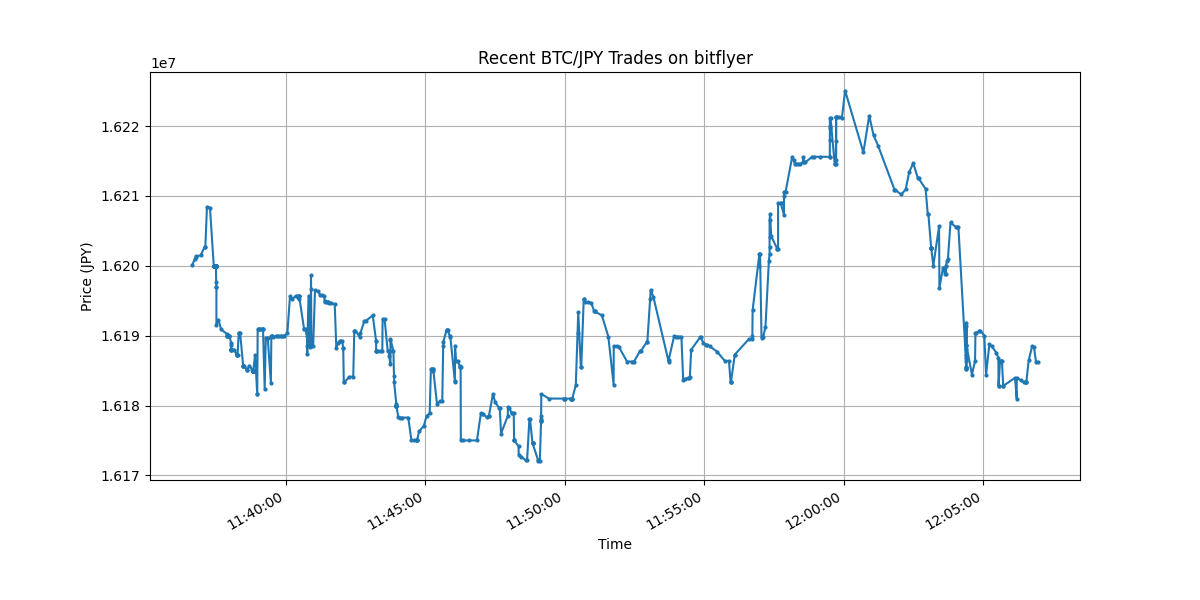
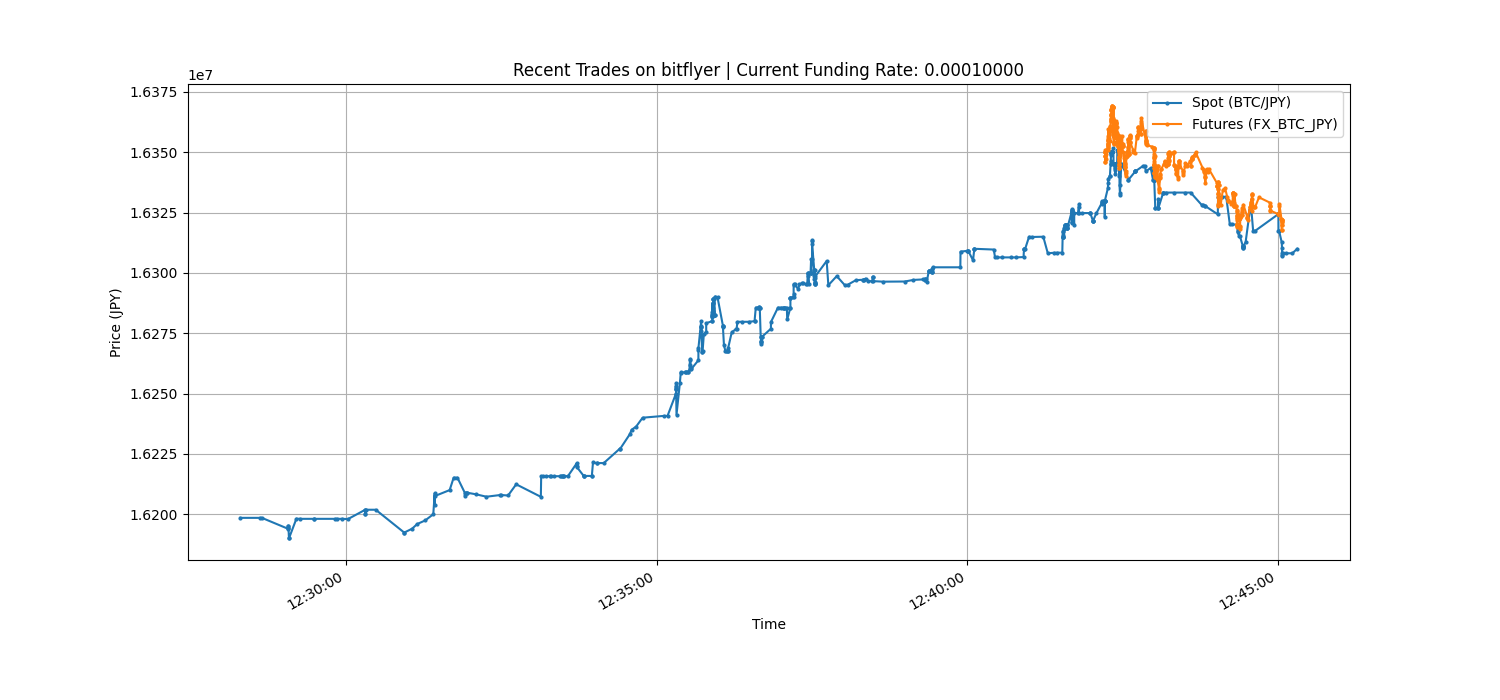
Enhance the trade plotting script to be more comprehensive.
The `plot_recent_trades.py` script has been updated to:
- Fetch recent trades for both spot (BTC/JPY) and futures (FX_BTC_JPY).
- Fetch the current funding rate.
- Plot both price series on the same graph with a legend for easy comparison.
- Display the current funding rate in the chart's title to provide more context.

This makes the script a more powerful tool for visualizing recent market conditions on bitflyer.

diff --git a/plot_recent_trades.py b/plot_recent_trades.py
@@ -20,27 +20,49 @@ def fetch_recent_trades(product_code="BTC_JPY", count=500):
         print(f"Error fetching trades for {product_code}: {e}")
         return None
 
-def plot_trades(trades_df, output_filename="recent_trades.png"):
+def fetch_funding_rate(product_code="FX_BTC_JPY"):
     """
-    Plots the trade data and saves it to a file.
+    Gets the funding rate for a given product code from bitflyer.
     """
-    if trades_df.empty:
-        print("Trade data is empty, skipping plot.")
+    url = f"https://api.bitflyer.com/v1/getfundingrate?product_code={product_code}"
+    try:
+        response = requests.get(url)
+        response.raise_for_status()
+        return response.json()
+    except requests.exceptions.RequestException as e:
+        print(f"Error fetching funding rate for {product_code}: {e}")
+        return None
+
+def plot_trades(spot_df=None, futures_df=None, funding_rate=None, output_filename="recent_trades.png"):
+    """
+    Plots the trade data for spot and futures and saves it to a file.
+    Displays the funding rate in the title.
+    """
+    if (spot_df is None or spot_df.empty) and (futures_df is None or futures_df.empty):
+        print("All trade data is empty, skipping plot.")
         return
 
     print(f"Generating plot and saving to {output_filename}...")
-    fig, ax = plt.subplots(figsize=(12, 6))
+    fig, ax = plt.subplots(figsize=(15, 7))
 
-    ax.plot(trades_df['exec_date'], trades_df['price'], marker='.', linestyle='-', markersize=4)
+    # Plotting
+    if spot_df is not None and not spot_df.empty:
+        ax.plot(spot_df['exec_date'], spot_df['price'], marker='.', linestyle='-', markersize=4, label='Spot (BTC/JPY)')
+    if futures_df is not None and not futures_df.empty:
+        ax.plot(futures_df['exec_date'], futures_df['price'], marker='.', linestyle='-', markersize=4, label='Futures (FX_BTC_JPY)')
 
     # Formatting the plot
-    ax.set_title('Recent BTC/JPY Trades on bitflyer')
+    title = 'Recent Trades on bitflyer'
+    if funding_rate is not None:
+        title += f' | Current Funding Rate: {funding_rate:.8f}'
+    ax.set_title(title)
     ax.set_xlabel('Time')
     ax.set_ylabel('Price (JPY)')
     ax.grid(True)
+    ax.legend()
 
     # Improve date formatting on x-axis
-    fig.autofmt_xdate() # Auto-rotates dates to fit
+    fig.autofmt_xdate()
     formatter = mdates.DateFormatter('%H:%M:%S')
     ax.xaxis.set_major_formatter(formatter)
 
@@ -55,27 +77,38 @@ def main():
     """
     Main function to fetch and plot recent trades.
     """
-    print("Fetching recent trades for BTC_JPY...")
-    trades = fetch_recent_trades()
+    print("Fetching data from bitflyer API...")
+    spot_trades = fetch_recent_trades(product_code="BTC_JPY")
+    futures_trades = fetch_recent_trades(product_code="FX_BTC_JPY")
+    funding_rate_data = fetch_funding_rate()
 
-    if trades:
-        # Create a pandas DataFrame
+    # --- Process Data ---
+    def process_trades(trades, name):
+        if not trades:
+            print(f"Could not fetch {name} trades.")
+            return None
         df = pd.DataFrame(trades)
-
-        # Convert exec_date to datetime objects
-        # Using format='ISO8601' handles timestamps with and without fractional seconds.
         df['exec_date'] = pd.to_datetime(df['exec_date'], format='ISO8601')
-
-        # Sort by date just in case the API doesn't guarantee order
         df = df.sort_values(by='exec_date')
+        print(f"Successfully processed {len(df)} {name} trades.")
+        return df
 
-        print(f"Successfully fetched and processed {len(df)} trades.")
+    spot_df = process_trades(spot_trades, "Spot (BTC_JPY)")
+    futures_df = process_trades(futures_trades, "Futures (FX_BTC_JPY)")
 
-        # Pass the DataFrame to the plotting function
-        plot_trades(df)
-
+    funding_rate = None
+    if funding_rate_data and 'current_funding_rate' in funding_rate_data:
+        funding_rate = funding_rate_data['current_funding_rate']
+        print(f"Current funding rate: {funding_rate}")
     else:
-        print("Could not fetch trades. Exiting.")
+        print("Could not fetch funding rate.")
+
+    # --- Plot Data ---
+    if spot_df is not None or futures_df is not None:
+        # Pass the DataFrames to the plotting function
+        plot_trades(spot_df, futures_df, funding_rate)
+    else:
+        print("No trade data available to plot. Exiting.")
 
     print("Script finished.")
 
